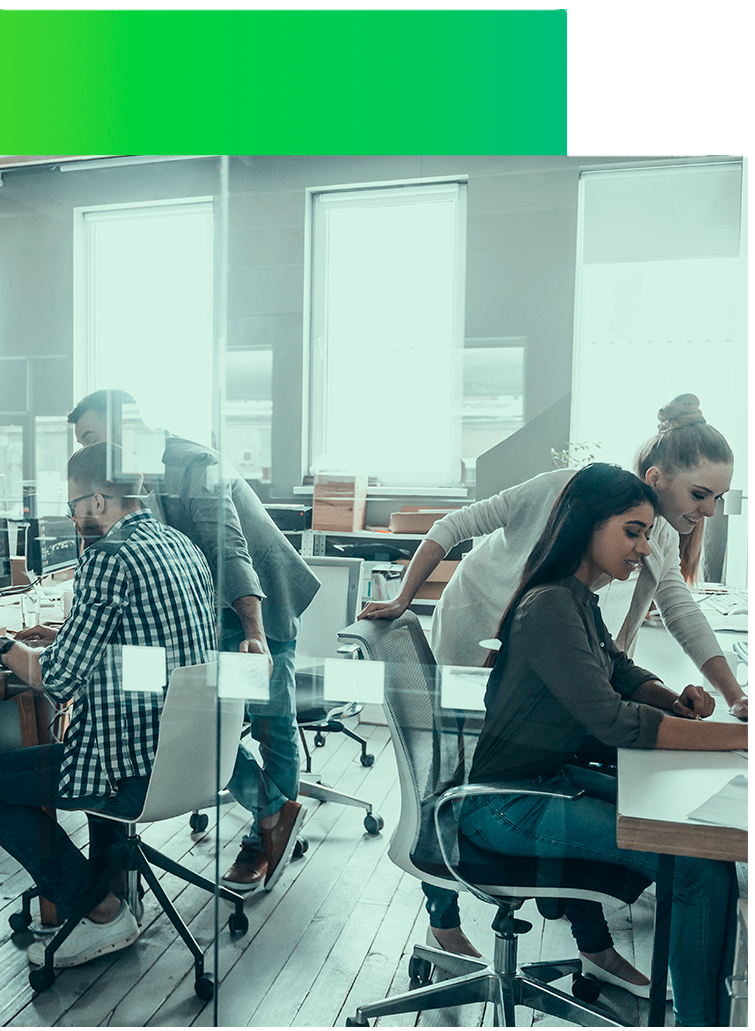
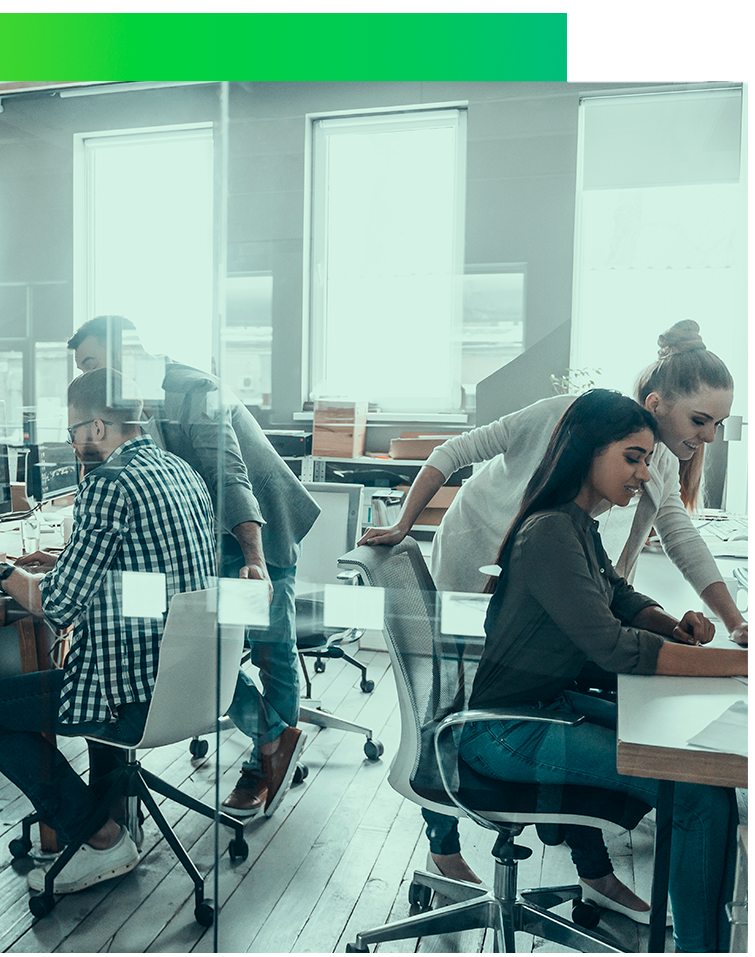
Front e select prontos

diff --git a/index.html b/index.html
@@ -5,7 +5,7 @@
     <meta http-equiv="X-UA-Compatible" content="IE=edge">
     <meta name="viewport" content="width=device-width, initial-scale=1">
     <!-- The above 3 meta tags *must* come first in the head; any other head content must come *after* these tags -->
-    <title>Bootstrap 101 Template</title>
+    <title>Internet Corporativa - Vogel</title>
 
     <!-- Bootstrap -->
     <link rel="stylesheet" href="https://maxcdn.bootstrapcdn.com/bootstrap/3.3.7/css/bootstrap.min.css" integrity="sha384-BVYiiSIFeK1dGmJRAkycuHAHRg32OmUcww7on3RYdg4Va+PmSTsz/K68vbdEjh4u" crossorigin="anonymous">
@@ -49,17 +49,15 @@
     <section class="somos-vogel">
       <div class="container">
         <div class="row">
-          <div class="col-md-7 position-relative">
+          <div class="col-md-6 position-relative">
             <h1 class="title-vogel">
-              Nós somos a Vogel
+              Nós somos <br>a Vogel
             </h1>
             <figure class="detalhe-title">
               <img src="img/detalhe-title.png" alt="Detalhe título">
             </figure>
           </div>
-        </div>
-        <div class="row">
-          <div class="col-md-6 pull-right position-relative">
+          <div class="col-md-6 position-relative">
             <p class="text-description">
               A maior empresa de Telecom do Brasil, 100% dedicada ao mercado corporativo e com as melhores soluções de conectividade.
             </p>
@@ -86,7 +84,7 @@
           </div>
           <div class="col-md-6">
             <figure class="text-right">
-              <img src="img/detalhes-pontilhados.jpg" alt="Detalhe Conteúdo">
+              <img style="width: 300px;" src="img/detalhes-pontilhados.jpg" alt="Detalhe Conteúdo">
             </figure>
             <h2 class="internet-corporativa">
               Nossa internet corporativa
@@ -95,7 +93,7 @@
               com ofertas exclusivas*<br>
               por período promocional.
             </p>
-            <div class="quadro-esquerdo">
+            <div class="quadro-esquerdo divdoselect sp" id="sp">
               <div class="quadro-velocidade">
                 <div class="titulo-velocidade">
                   <span>10Mb</span>
@@ -120,16 +118,95 @@
                   R$3.199,00
                 </div>
               </div>
+            </div> 
+            <div class="quadro-esquerdo divdoselect rj" id="rj">
+              <div class="quadro-velocidade">
+                <div class="titulo-velocidade">
+                  <span>10Mb</span>
+                </div>
+                <div class="valor">
+                  R$885,00
+                </div>
+              </div>
+              <div class="quadro-velocidade">
+                <div class="titulo-velocidade">
+                  <span>30Mb</span>
+                </div>
+                <div class="valor">
+                  R$1.662,00
+                </div>
+              </div>
+              <div class="quadro-velocidade">
+                <div class="titulo-velocidade">
+                  <span>100Mb</span>
+                </div>
+                <div class="valor">
+                  R$3.546,00
+                </div>
+              </div>
+            </div>
+            <div class="quadro-esquerdo divdoselect bh" id="bh">
+              <div class="quadro-velocidade">
+                <div class="titulo-velocidade">
+                  <span>10Mb</span>
+                </div>
+                <div class="valor">
+                  R$822,00
+                </div>
+              </div>
+              <div class="quadro-velocidade">
+                <div class="titulo-velocidade">
+                  <span>30Mb</span>
+                </div>
+                <div class="valor">
+                  R$1.542,00
+                </div>
+              </div>
+              <div class="quadro-velocidade">
+                <div class="titulo-velocidade">
+                  <span>100Mb</span>
+                </div>
+                <div class="valor">
+                  R$3.291,00
+                </div>
+              </div>
+            </div>            
+            <div class="quadro-esquerdo divdoselect poa" id="poa">
+              <div class="quadro-velocidade">
+                <div class="titulo-velocidade">
+                  <span>10Mb</span>
+                </div>
+                <div class="valor">
+                  R$859,00
+                </div>
+              </div>
+              <div class="quadro-velocidade">
+                <div class="titulo-velocidade">
+                  <span>30Mb</span>
+                </div>
+                <div class="valor">
+                  R$1.649,00
+                </div>
+              </div>
+              <div class="quadro-velocidade">
+                <div class="titulo-velocidade">
+                  <span>100Mb</span>
+                </div>
+                <div class="valor">
+                  R$3.519,00
+                </div>
+              </div>
             </div>
             <div class="quadro-direita">
               <p class="titulo-direita">Escolha sua cidade:</p>
               <form action="#" class="input-group">
                 <div class="form-group">
-                  <select name="cidade" id="cidade">
-                    <option value="São Paulo">São Paulo</option>
-                    <option value="Belo Horizonte">Belo Horizonte</option>
-                    <option value="Porto Alegre">Porto Alegre</option>
-                    <option value="Rio de Janeiro">Rio de Janeiro</option>
+                  <select name="cidade" id="cidade" onchange="mostraCidade();">
+                    <option value="">Escolha sua cidade:</option>
+                    <option data-div="bh" value="bh">Belo Horizonte</option>
+                    <option data-div="poa" value="poa">Porto Alegre</option>
+                    <option data-div="rj" value="rj">Rio de Janeiro</option>
+                    <option data-div="sp" value="sp">São Paulo</option>
                   </select>
                 </div>
               </form>
@@ -173,8 +250,17 @@
             <figure class="barra-footer">
               <img src="img/barra-footer.jpg" alt="Barra verde Rodapé">
             </figure> 
-            <p class="termos-footer">
+            <p class="termos-footer divdoselect sp" id="footerSp">
               *Condições válidas exclusivamente para prédios comerciais em São Paulo, já abordados pela Vogel e para contratos firmados entre 01/10/2017 e 31/12/2017, com duração de 36 meses.
+            </p> 
+            <p class="termos-footer divdoselect rj" id="footerRj">
+              *Condições válidas exclusivamente para prédios comerciais no Rio de Janeiro, já abordados pela Vogel e para contratos firmados entre 01/10/2017 e 31/12/2017, com duração de 36 meses.
+            </p> 
+            <p class="termos-footer divdoselect bh" id="footerMg">
+              *Condições válidas exclusivamente para prédios comerciais em Belo Horizonte, já abordados pela Vogel e para contratos firmados entre 01/10/2017 e 31/12/2017, com duração de 36 meses.
+            </p>  
+            <p class="termos-footer divdoselect poa" id="footerPoa">
+              *Condições válidas exclusivamente para prédios comerciais em Porto Alegre, já abordados pela Vogel e para contratos firmados entre 01/10/2017 e 31/12/2017, com duração de 36 meses.
             </p> 
           </div>
           <div class="col-md-3">
@@ -185,9 +271,20 @@
         </div>
       </div>
     </footer>
+
     <!-- jQuery (necessary for Bootstrap's JavaScript plugins) -->
     <script src="https://ajax.googleapis.com/ajax/libs/jquery/1.12.4/jquery.min.js"></script>
     <!-- Include all compiled plugins (below), or include individual files as needed -->
     <script src="https://maxcdn.bootstrapcdn.com/bootstrap/3.3.7/js/bootstrap.min.js" integrity="sha384-Tc5IQib027qvyjSMfHjOMaLkfuWVxZxUPnCJA7l2mCWNIpG9mGCD8wGNIcPD7Txa" crossorigin="anonymous"></script>
+    <script>
+      $(document).ready(function(){
+        $('select').change(function(){
+            $('.divdoselect').hide();
+            var divclass = $('option:selected',this).attr('data-div');
+            if(divclass)
+              $('.'+divclass).show();
+        });
+      });
+    </script>
   </body>
 </html>

diff --git a/css/default.css b/css/default.css
@@ -25,6 +25,9 @@
 .position-relative{
 	position: relative;
 }
+.divdoselect{
+	display:none;
+}
 
 /*HEADER*/
 html, body{
@@ -37,7 +40,7 @@ header{
 	background: url('../img/bg-top.jpg');
 	background-size: cover;
 	background-position: top right;
-	height: 433px;
+    height: 365px;
 	width: 100%; 
 }
 header div.container{
@@ -46,12 +49,12 @@ header div.container{
 header h1{
 	color: #fff;
 	font-size: 50px;
-    padding-top: 12%;
+    padding-top: 6%;
     font-family: "SF Display bold";
 }
 img.logo-vogel {
     width: 75%;
-    margin-top: 22%;
+    margin-top: 10%;
 }
 header figure img{
 	width: 100%;
@@ -67,19 +70,18 @@ figure.img-destaque img {
 
 /*SOMOS VOGEL*/
 .title-vogel{
-	font-size: 120px;
+	font-size: 80px;
 	font-family: "SF Display bold";
 }
 figure.detalhe-title {
     position: absolute;
-    left: -145px;
+    left: -375px;
 }
 .text-description{
-    width: 47%;
     font-family: "SF Display light";
-    font-size: 35px;
+    font-size: 25px;
     line-height: 1.5;
-    margin-top: -100px;
+    margin-top: 100px;
 }
 figure.detalhe-pontilhados{
 	position: absolute;
@@ -88,19 +90,24 @@ figure.detalhe-pontilhados{
 }
 
 /*PROMOCOES*/
+.promocoes{
+    margin-top: 50px;
+}
 .pessoas-reuniao{
-	width: 100%;
+	width: 88%;
     margin-left: -15px;
 }
 h2.internet-corporativa {
-    font-size: 80px;
+    font-size: 65px;
     width: 70%;
     font-family: "SF Display bold";
 }
 .descricao-internet-corporativa{
 	font-family: "SF Display light";
 	font-size: 40px;
-	padding-top: 15px
+	padding-top: 15px;
+	line-height: 1;
+	margin-bottom: 50px;
 }
 .quadro-esquerdo{
 	width: 230px;
